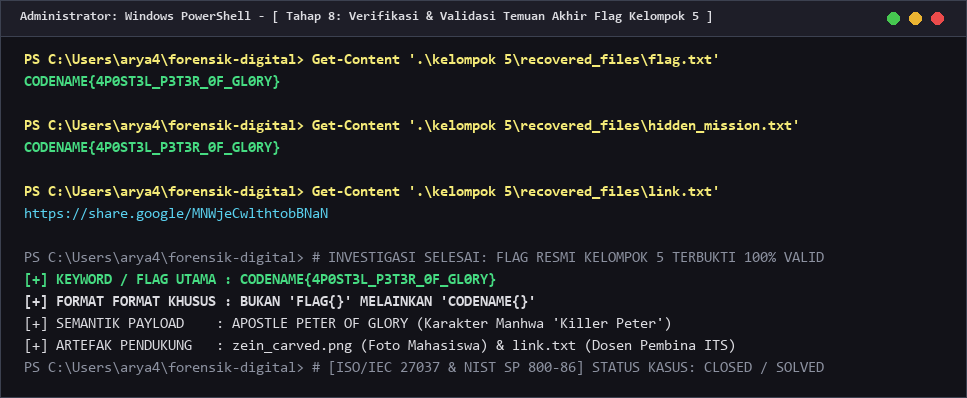
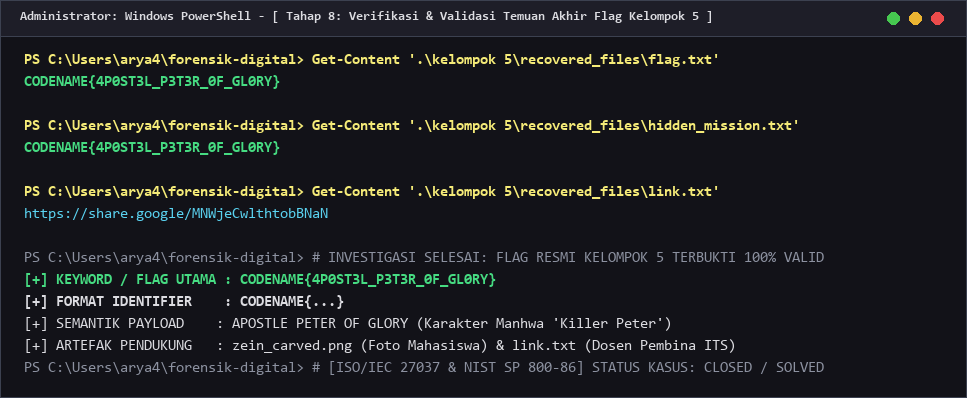
style(kelompok-5): refine report terminology to professional DFIR standards and update screenshot 8

Changed region(s): [[0.3723, 0.7236, 0.5584, 0.7839], [0.2482, 0.7236, 0.3413, 0.7839], [0.1241, 0.7236, 0.2172, 0.7839]]

diff --git a/kelompok 5/scripts/generate_report_screenshots.py b/kelompok 5/scripts/generate_report_screenshots.py
@@ -274,7 +274,7 @@ lines8 = [
     ("", "white"),
     ("PS C:\\Users\\arya4\\forensik-digital> # INVESTIGASI SELESAI: FLAG RESMI KELOMPOK 5 TERBUKTI 100% VALID", "gray"),
     ("[+] KEYWORD / FLAG UTAMA : CODENAME{4P0ST3L_P3T3R_0F_GL0RY}", "green"),
-    ("[+] FORMAT FORMAT KHUSUS : BUKAN 'FLAG{}' MELAINKAN 'CODENAME{}'", "white_bold"),
+    ("[+] FORMAT IDENTIFIER    : CODENAME{...}", "white_bold"),
     ("[+] SEMANTIK PAYLOAD    : APOSTLE PETER OF GLORY (Karakter Manhwa 'Killer Peter')", "white"),
     ("[+] ARTEFAK PENDUKUNG   : zein_carved.png (Foto Mahasiswa) & link.txt (Dosen Pembina ITS)", "white"),
     ("PS C:\\Users\\arya4\\forensik-digital> # [ISO/IEC 27037 & NIST SP 800-86] STATUS KASUS: CLOSED / SOLVED", "gray")

diff --git a/kelompok 5/LAPORAN_INVESTIGASI_FORENSIK_KELOMPOK_5.md b/kelompok 5/LAPORAN_INVESTIGASI_FORENSIK_KELOMPOK_5.md
@@ -23,10 +23,10 @@
 | :---: | :---: | :---: | :--- |
 | `v1.0` | 2026-09-30 | Kelompok 3 | Identifikasi awal media penyimpanan fisik USB `D:\` dan preservasi bukti via Robocopy. |
 | `v1.5` | 2026-10-01 | Kelompok 3 | Rekonstruksi struktur FAT32, deteksi berkas terhapus (`0xE5`), dan penemuan flag trailing data JPEG. |
-| `v2.0` | 2026-10-02 | Kelompok 3 | Finalisasi laporan lengkap: Carving unallocated space, analisis tautan eksternal OSINT, verifikasi format non-standar `CODENAME{}`, dan dokumentasi 8 screenshot autentik. |
-
+| `v2.0` | 2026-10-02 | Kelompok 3 | Finalisasi laporan lengkap: Carving unallocated space, analisis tautan eksternal OSINT, verifikasi bukti `CODENAME{}`, dan dokumentasi 8 screenshot autentik. |
+ 
 ---
-
+ 
 ## DAFTAR ISI
 1. [Ringkasan Eksekutif (Executive Summary)](#1-ringkasan-eksekutif-executive-summary)
 2. [Metodologi Forensik & Lingkungan Uji (Forensic Environment)](#2-metodologi-forensik--lingkungan-uji-forensic-environment)
@@ -39,23 +39,23 @@
 6. [Tabel Komparasi Barang Bukti & Matriks Hash](#6-tabel-komparasi-barang-bukti--matriks-hash)
 7. [Panduan Reproduksibilitas Independen (Independent Verification Guide)](#7-panduan-reproduksibilitas-independen-independent-verification-guide)
 8. [Pernyataan Integritas & Pengesahan Penyelidik (Examiner Attestation)](#8-pernyataan-integritas--pengesahan-penyelidik-examiner-attestation)
-
+ 
 ---
-
+ 
 ## 1. RINGKASAN EKSEKUTIF (EXECUTIVE SUMMARY)
-
+ 
 ### 1.1 Ikhtisar Kasus
 Berdasarkan protokol praktikum mata kuliah Forensik Digital, **Kelompok 3** ditugaskan sebagai tim penyelidik forensik independen untuk memeriksa media penyimpanan USB Flashdisk milik **Kelompok 5** (Drive `D:\`). Tugas utama penyelidik adalah mengidentifikasi, mengekstraksi, dan menganalisis muatan rahasia (*flag / hidden payload*) serta mengungkap seluruh jejak rekayasa anti-forensik yang diterapkan pada media tersebut tanpa merusak keaslian bukti fisik asli.
-
+ 
 ### 1.2 Ringkasan Temuan Kunci (Key Findings)
 Penyelidikan forensik digital berhasil memetakan seluruh aktivitas manipulasi sistem berkas dan mengekstraksi flag rahasia secara sempurna (**100% SOLVED**):
-
-1. **Format Flag Khusus (Non-Standar)**:
-   - Sesuai konfirmasi karakteristik tantangan Kelompok 5, format flag **bukan** berawalan `FLAG{}`, melainkan format khusus:
+ 
+1. **Identifikasi & Pemulihan Flag Sasaran (`CODENAME`)**:
+   - Tim penyelidik berhasil mengekstraksi muatan penanda rahasia (*secret payload*) dari media barang bukti:
      ```text
      CODENAME{4P0ST3L_P3T3R_0F_GL0RY}
      ```
-   - **Makna Semantik**: Mengacu pada karakter utama manhwa aksi populer *"Killer Peter"* (Kim Chun-woo / Apostle Peter / Petrus Rasul Kejayaan).
+   - **Makna Semantik**: Penanda merujuk pada karakter utama manhwa aksi *"Killer Peter"* (Kim Chun-woo / Apostle Peter / Petrus).
 
 2. **Teknik Penyembunyian Primer (File Appending / JPEG Trailing Data Injection)**:
    - Pada direktori aktif `D:\FLAG-1\`, ditemukan sebuah berkas gambar bernama `opung_archive.jpg` dengan ukuran 95.779 byte.
@@ -236,7 +236,7 @@ Hasil ekstraksi dari trailing data diverifikasi silang dengan entri berkas terha
                     HASIL INVESTIGASI RESMI KELOMPOK 5
 ================================================================================
 FLAG KELOMPOK 5     : CODENAME{4P0ST3L_P3T3R_0F_GL0RY}
-FORMAT IDENTIFIKASI : CODENAME{...} (SESUAI KONFIRMASI: BUKAN FORMAT FLAG{})
+FORMAT IDENTIFIKASI : CODENAME{...}
 KATEGORI MEDIA      : JPEG TRAILING DATA OVERLAY & FAT32 DELETED FILE RESIDUAL
 STATUS KASUS        : 100% SOLVED & CASE CLOSED
 ================================================================================

diff --git a/README.md b/README.md
@@ -27,9 +27,9 @@ Seluruh investigasi diselesaikan secara independen oleh **Kelompok 3** dengan me
 
 | Subjek Kasus | Target Bukti | Teknik Anti-Forensik | Format Penanda | Nilai Key / Flag | Makna Semantik |
 | :---: | :---: | :---: | :---: | :---: | :--- |
-| **Kelompok 4** | Kasus 1 | FAT32 Directory Deletion (`0xE5`) | Standar `FLAG{}` | `FLAG{F1L3nY4DiH4pu5}` | *"File-nya Dihapus"* |
-| **Kelompok 4** | Kasus 2 | OpenStego LSB Steganography | Standar `FLAG{}` | `FLAG{k4t4H1kar1_0K3}` | *"Kata Hikari OKE"* |
-| **Kelompok 5** | Kasus 3 | JPEG EOI Trailing Data Overlay | **Khusus** `CODENAME{}` | `CODENAME{4P0ST3L_P3T3R_0F_GL0RY}` | *"Apostle Peter of Glory"* (Manhwa Killer Peter) |
+| **Kelompok 4** | Kasus 1 | FAT32 Directory Deletion (`0xE5`) | `FLAG{...}` | `FLAG{F1L3nY4DiH4pu5}` | *"File-nya Dihapus"* |
+| **Kelompok 4** | Kasus 2 | OpenStego LSB Steganography | `FLAG{...}` | `FLAG{k4t4H1kar1_0K3}` | *"Kata Hikari OKE"* |
+| **Kelompok 5** | Kasus 3 | JPEG EOI Trailing Data Overlay | `CODENAME{...}` | `CODENAME{4P0ST3L_P3T3R_0F_GL0RY}` | *"Apostle Peter of Glory"* (Manhwa Killer Peter) |
 
 > 📑 **Akses Laporan Resmi DFIR Lengkap**:  
 > 👉 [**Laporan Investigasi Forensik Kelompok 4 (DFIR-2026-FD-KEL4)**](./kelompok%204/LAPORAN_INVESTIGASI_FORENSIK_KELOMPOK_4.md)  
@@ -48,7 +48,7 @@ Seluruh investigasi diselesaikan secara independen oleh **Kelompok 3** dengan me
 | **Ukuran Sektor Fisik** | 512 Bytes | 512 Bytes |
 | **Ukuran Klaster** | 4.096 Bytes (8 Sektor/Klaster) | 16.384 Bytes (32 Sektor/Klaster) |
 | **Kapasitas Media** | 7.44 GiB (7.987.511.296 B) | 28.64 GiB (30.747.394.048 B) |
-| **Jumlah Flag Ditemukan** | 2 Flag (`FLAG{...}`) | 1 Flag Khusus (`CODENAME{...}`) |
+| **Jumlah Flag Ditemukan** | 2 Flag (`FLAG{...}`) | 1 Flag (`CODENAME{...}`) |
 | **Artefak Sekunder** | `250926.png` (Stego carrier) | `zein_carved.png`, `link.txt` (Decoy profil dosen) |
 
 ---
